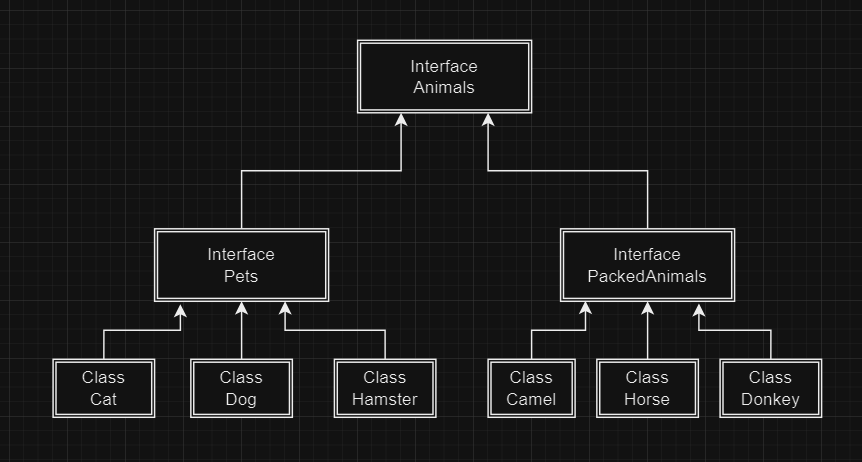
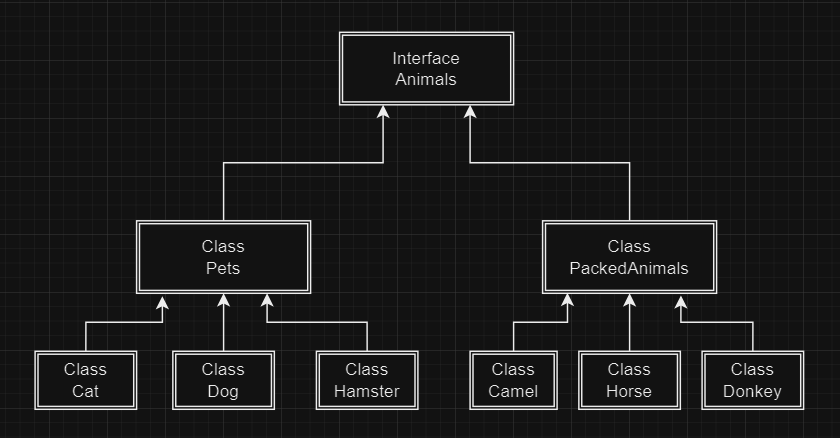
Task 13 finished

Changed region(s): [[0.031, 0.0594, 0.9595, 0.9498]]

diff --git a/src/classes/Pets.java b/src/classes/Pets.java
@@ -1,0 +1,29 @@
+package classes;
+
+import java.util.Date;
+
+public class Pets implements Animals{
+    private String name;
+    private Date birthday;
+    private String command;
+    private String breed;
+
+    @Override
+    public String getName() {
+        return name;
+    }
+
+    @Override
+    public Date getBirthday() {
+        return birthday;
+    }
+
+    @Override
+    public String getCommand() {
+        return command;
+    }
+
+    public String getBreed(){
+        return breed;
+    }
+}

diff --git a/src/classes/PackedAnimals.java b/src/classes/PackedAnimals.java
@@ -1,0 +1,24 @@
+package classes;
+
+import java.util.Date;
+
+public class PackedAnimals implements Animals {
+    private String name;
+    private Date birthday;
+    private String command;
+
+    @Override
+    public String getName() {
+        return name;
+    }
+
+    @Override
+    public Date getBirthday() {
+        return birthday;
+    }
+
+    @Override
+    public String getCommand() {
+        return command;
+    }
+}

diff --git a/src/classes/Animals.java b/src/classes/Animals.java
@@ -1,0 +1,9 @@
+package classes;
+
+import java.util.Date;
+
+public interface Animals {
+    String getName();
+    Date getBirthday();
+    String getCommand();
+}

diff --git a/src/classes/Donkey.java b/src/classes/Donkey.java
@@ -1,0 +1,4 @@
+package classes;
+
+public class Donkey extends PackedAnimals{
+}

diff --git a/src/classes/Camel.java b/src/classes/Camel.java
@@ -1,0 +1,4 @@
+package classes;
+
+public class Camel extends PackedAnimals{
+}

diff --git a/src/classes/Horse.java b/src/classes/Horse.java
@@ -1,0 +1,4 @@
+package classes;
+
+public class Horse extends PackedAnimals{
+}

diff --git a/src/classes/Hamster.java b/src/classes/Hamster.java
@@ -1,0 +1,4 @@
+package classes;
+
+public class Hamster extends Pets{
+}

diff --git a/src/classes/Cat.java b/src/classes/Cat.java
@@ -1,0 +1,5 @@
+package classes;
+
+public class Cat extends Pets{
+
+}

diff --git a/src/classes/Dog.java b/src/classes/Dog.java
@@ -1,0 +1,4 @@
+package classes;
+
+public class Dog extends Pets{
+}

diff --git a/README.md b/README.md
@@ -251,7 +251,7 @@ LEFT JOIN yangAnimal ya ON ya.Name = hum.Name
 LEFT JOIN Pets pet ON pet.Id = hum.Pet_id;
 ```
 
-13. Создать [класс с Инкапсуляцией методов и наследованием по диаграмме].
+13. Создать [класс с Инкапсуляцией методов и наследованием по диаграмме](src%2Fclasses).
 14. Написать [программу, имитирующую работу реестра домашних животных].
     В программе должен быть реализован следующий функционал:    
     14.1 Завести новое животное    
